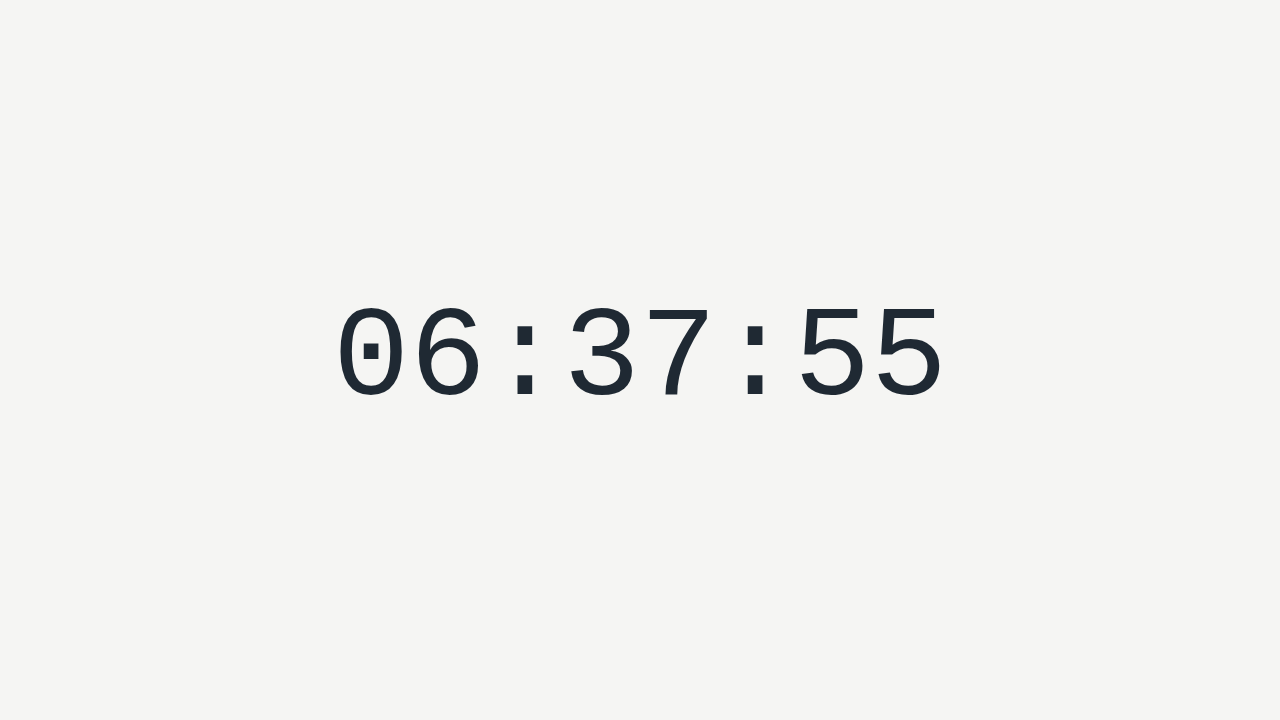
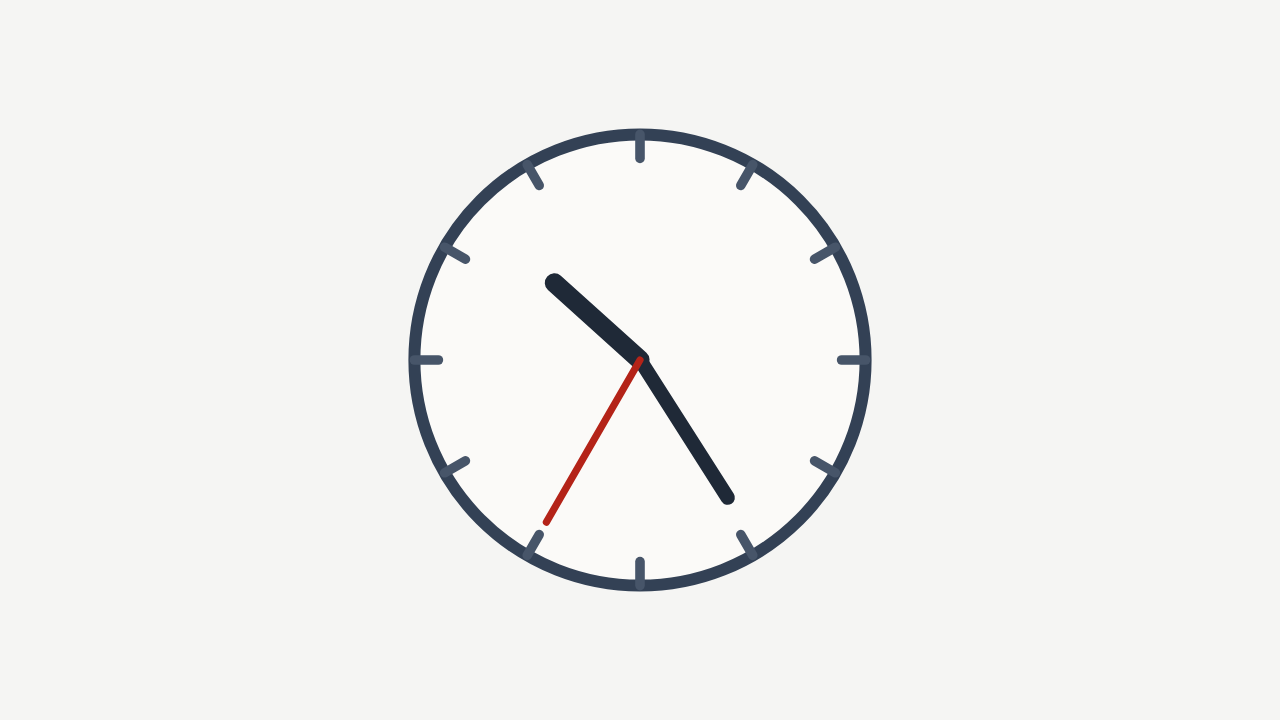
feat: Final polish pass for analog clock

diff --git a/README.md b/README.md
@@ -1,7 +1,7 @@
 # alex-1883-test-32
 
-A small static browser clock that shows the current local time as `HH:MM:SS`.
-It uses plain HTML, CSS, and JavaScript with no build step.
+A small static browser clock that shows the current local time on a responsive
+SVG analog face. It uses plain HTML, CSS, and JavaScript with no build step.
 
 ![Local Clock screenshot](docs/screenshot.png)
 
@@ -28,7 +28,7 @@ npm install
 npx playwright install
 ```
 
-Run the formatter unit tests:
+Run the unit tests:
 
 ```bash
 npm test
@@ -47,7 +47,8 @@ and produces no browser console or page errors.
 ## Files
 
 - `index.html`: page shell for the clock.
-- `styles.css`: centered full-viewport layout and responsive clock typography.
-- `clock.js`: time formatting, rendering, and tick scheduling.
-- `test/format-time.test.js`: unit coverage for `formatTime`.
+- `styles.css`: centered full-viewport layout and responsive analog clock styling.
+- `clock.js`: hand angle computation, rendering, and tick scheduling.
+- `test/compute-angles.test.js`: unit coverage for `computeAngles`.
+- `test/render-clock.test.js`: unit coverage for hand rendering and tick timing.
 - `e2e/clock.spec.js`: Playwright browser coverage.